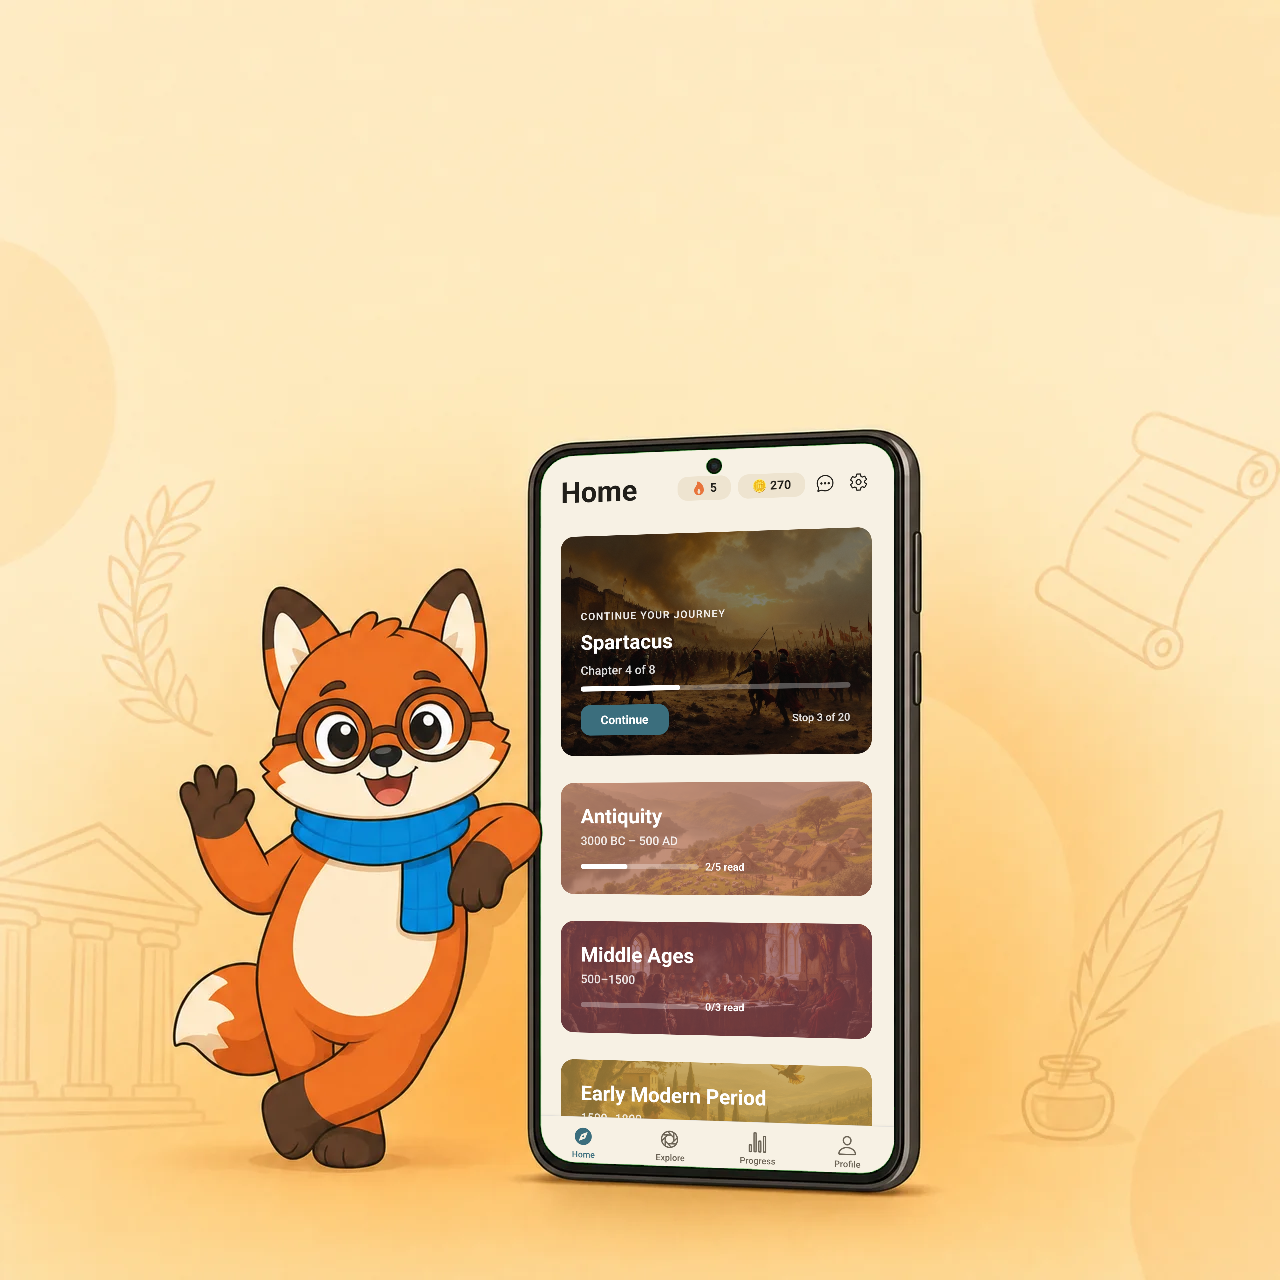
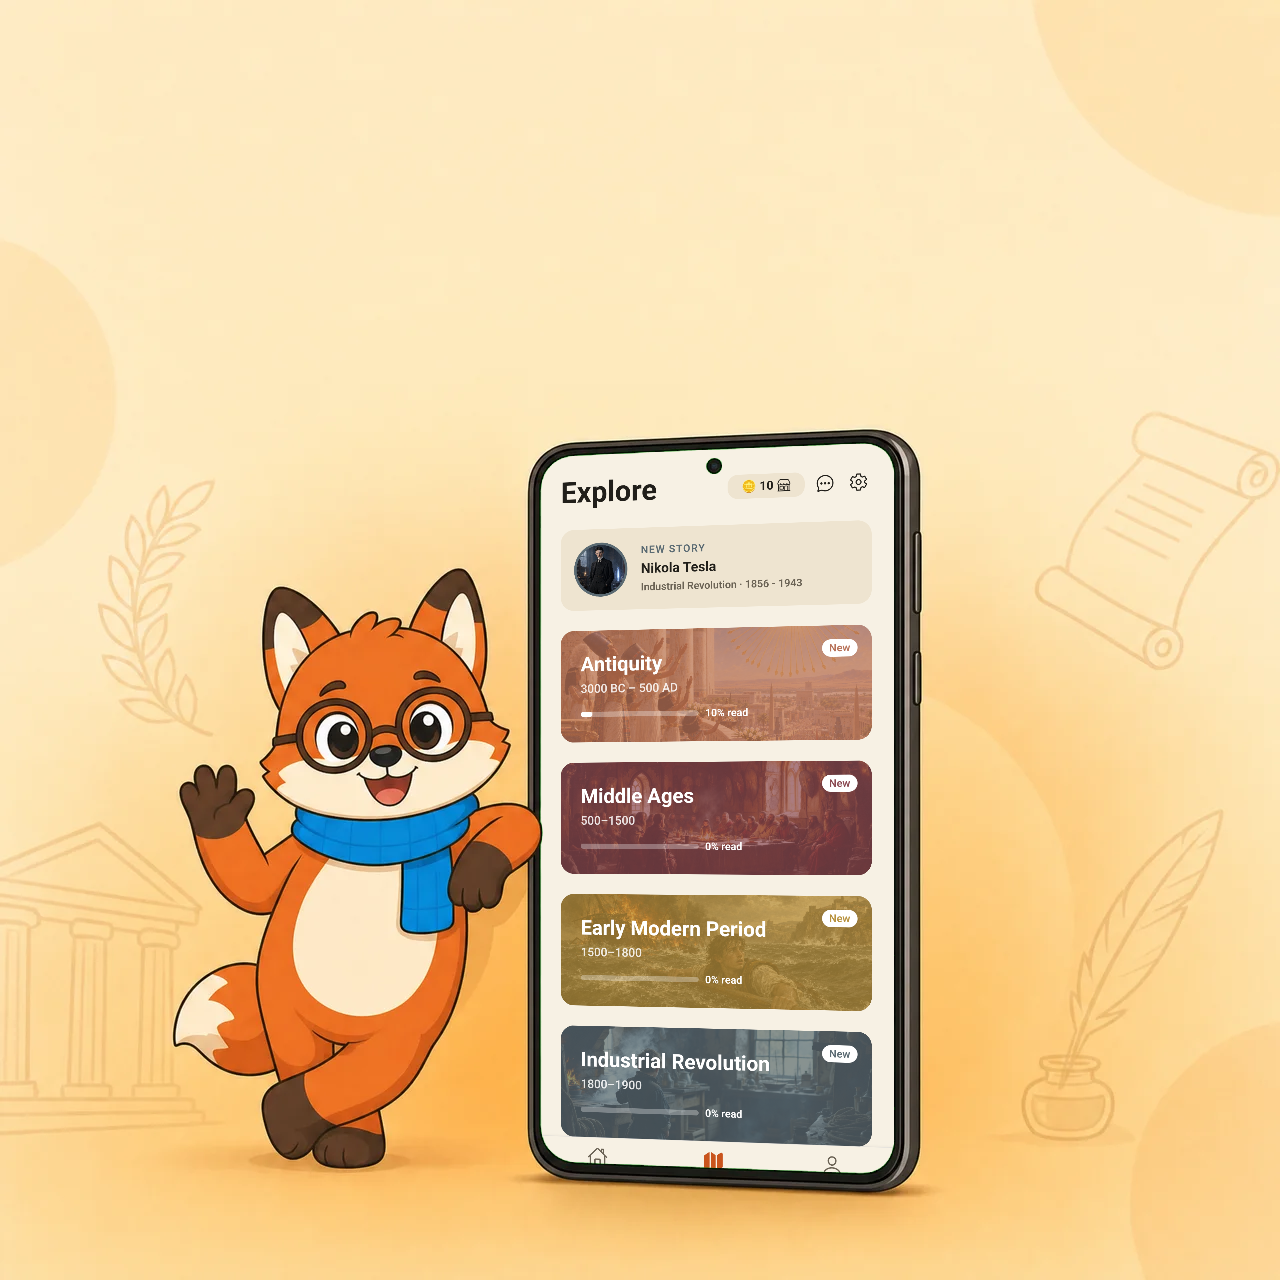
Store screenshots 1.5: six slides from the current app
Explore, chapter route, quiz, trivia vs the fox, streak on Home, reader.
Slide 1 now says 'From the pharaohs to today' (the journey starts at Tutankhamun).

Changed region(s): [[0.4375, 0.375, 0.6875, 0.9062]]

diff --git a/store/screenshots.html b/store/screenshots.html
@@ -1,6 +1,6 @@
 <!doctype html>
 <!--
-  De telefoon-screenshots voor de Play Store (1.3, vernieuwd in 1.4), als sjabloon.
+  De telefoon-screenshots voor de Play Store (1.3, vernieuwd in 1.4 en 1.5), als sjabloon.
 
   Zelfde aanpak als feature-graphic.html: dit bestand is de bron, de PNG's niet. Elke dia is
   1080×1920 (9:16, wat Play wil) en wordt door `npm run generate:store-screenshots` met headless
@@ -137,37 +137,37 @@
   const WARM = { van: '#FFEBC2', naar: '#FDD48E', tekst: '#4A2C1A' };
   const DIAS = [
     {
-      kop: 'Travel from Rome<br>to today',
+      kop: 'From the pharaohs<br>to today',
       sub: 'One journey through history, one true story at a time.',
-      scherm: 'home-1.4.png', vos: 'zwaaiend.png', kant: 'links',
+      scherm: 'explore-1.5.png', vos: 'zwaaiend.png', kant: 'links',
       scene: 'scenes/klaar/scene-1-home.png', achtergrond: '#FFEBC2', tekst: '#4A2C1A',
     },
     {
       kop: 'Follow every story,<br>chapter by chapter',
       sub: 'Each chapter opens with an illustrated scene.',
-      ...WARM, scherm: 'route-verhaal-1.4.png', vos: 'op-weg.png', kant: 'links',
+      ...WARM, scherm: 'route-verhaal-1.5.png', vos: 'op-weg.png', kant: 'links',
     },
     {
       kop: 'Learn<br>as you read',
       sub: 'A quick question after every chapter, with a friendly fox as your teacher.',
-      ...WARM, scherm: 'quiz-goed.png', vos: 'leraar-wijzend.png', kant: 'rechts', spiegel: true, statusbalk: '#89847C',
+      ...WARM, scherm: 'quiz-goed-1.5.png', vos: 'leraar-wijzend.png', kant: 'rechts', spiegel: true, statusbalk: '#89847C',
     },
     {
-      kop: 'Spin the wheel,<br>win the crowns',
-      sub: 'History trivia from every era. How many crowns can you collect?',
-      ...WARM, scherm: 'explore-1.4.png', vos: 'era-middeleeuwen.png', kant: 'links',
+      kop: 'Spin the wheel,<br>beat the fox',
+      sub: 'History trivia from every era. Win six crowns before the fox does.',
+      ...WARM, scherm: 'trivia-1.5.png', vos: 'era-middeleeuwen.png', kant: 'links',
     },
     {
       kop: 'Keep your<br>streak alive',
       sub: 'One chapter a day. The fox cheers you on.',
-      scherm: 'voortgang-1.4.png', vos: 'fase-1-gevierd.png', kant: 'links',
+      scherm: 'home-1.5.png', vos: 'fase-1-gevierd.png', kant: 'links',
       // Hier staat de telefoon in het midden van de scène, dus gecentreerd: 540 − 640 × 1,35.
       scene: 'scenes/klaar/scene-2-streak.png', achtergrond: '#FFEBC2', tekst: '#4A2C1A', sceneLinks: -324,
     },
     {
       kop: 'Stories that read<br>like a novel',
       sub: 'Short chapters about real people and the moments that shaped our world.',
-      ...WARM, scherm: 'reader-1.4.png', vos: 'fase-2-ochtend.png', kant: 'rechts', spiegel: true,
+      ...WARM, scherm: 'reader-1.5.png', vos: 'fase-2-ochtend.png', kant: 'rechts', spiegel: true,
     },
   ];
 
